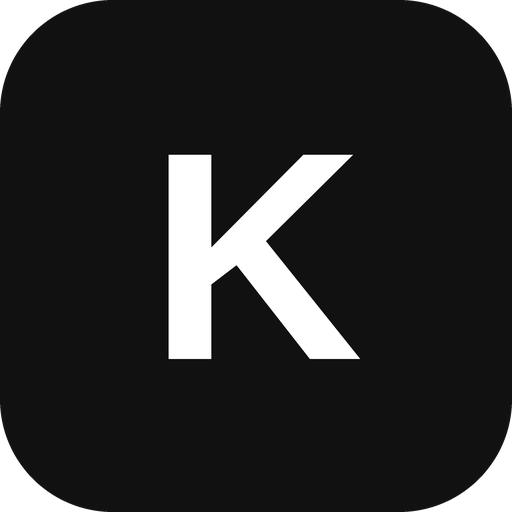
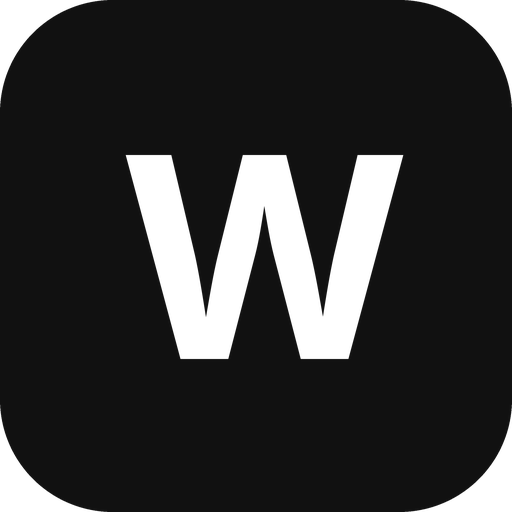
Transformasi

Changed region(s): [[0.25, 0.2812, 0.7812, 0.7188], [0.6875, 0.6875, 0.7188, 0.7188]]

diff --git a/index.html b/index.html
@@ -4,19 +4,19 @@
 <meta charset="utf-8">
 <meta name="viewport" content="width=device-width, initial-scale=1, viewport-fit=cover">
 <meta name="theme-color" content="#ebebec">
-<title>Kalsara | Harga tepat, untung terjaga</title>
+<title>Wulfeg | Harga tepat, untung terjaga</title>
 <link rel="manifest" href="manifest.webmanifest">
 <link rel="icon" type="image/png" sizes="192x192" href="icons/icon-192.png">
 <link rel="apple-touch-icon" href="icons/apple-touch-icon.png">
-<meta name="mobile-web-app-capable" content="yes"><meta name="apple-mobile-web-app-capable" content="yes"><meta name="apple-mobile-web-app-title" content="Kalsara">
+<meta name="mobile-web-app-capable" content="yes"><meta name="apple-mobile-web-app-capable" content="yes"><meta name="apple-mobile-web-app-title" content="Wulfeg">
 <link rel="stylesheet" href="css/app.css">
 </head>
 <body>
 
-<header><div class="av">K</div><div><div class="brand">Kalsara</div><p class="pwa">Progressive Web App</p></div><button class="thm" id="thm" type="button"></button></header>
+<header><div class="av">W</div><div><div class="brand">Wulfeg</div><p class="pwa">Progressive Web App</p></div><button class="thm" id="thm" type="button"></button></header>
 <main>
 <div class="wn y" id="bkr" role="status" hidden style="margin:10px 0 10px;padding:10px 14px;font-size:12.5px;line-height:1.5;border-radius:14px"><span id="bkrt"></span><div style="display:flex;gap:8px;margin-top:8px"><button class="btn" id="bkrn" type="button" style="width:auto;flex:1 1 0;min-width:0;margin:0;padding:10px 12px">Cadangkan sekarang</button><button class="btn gh" id="bkrl" type="button" style="width:auto;flex:0 0 auto;margin:0;padding:10px 18px">Nanti</button></div></div>
-<div class="wn y" id="nvb" role="status" hidden style="margin:10px 0 10px;padding:10px 14px;font-size:12.5px;line-height:1.5;border-radius:14px">Versi baru Kalsara sudah siap. Data Anda tidak akan hilang.<div style="display:flex;gap:8px;margin-top:8px"><button class="btn" id="nvg" type="button" style="width:auto;flex:1 1 0;min-width:0;margin:0;padding:10px 12px">Muat versi terbaru</button></div></div>
+<div class="wn y" id="nvb" role="status" hidden style="margin:10px 0 10px;padding:10px 14px;font-size:12.5px;line-height:1.5;border-radius:14px">Versi baru Wulfeg sudah siap. Data Anda tidak akan hilang.<div style="display:flex;gap:8px;margin-top:8px"><button class="btn" id="nvg" type="button" style="width:auto;flex:1 1 0;min-width:0;margin:0;padding:10px 12px">Muat versi terbaru</button></div></div>
 <div id="top" hidden><div class="hero"><span>Perkiraan untung jika tiap produk laku 1 kali</span><b id="s3">-</b><div class="sync" id="sy">Tersimpan di perangkat ini</div></div><div class="tt" id="tt3" aria-label="Jumlah produk. Ketuk kartu untuk menyaring daftar"><div role="button" tabindex="0" data-ft="all"><span>Total produk</span><b id="tp1">0</b></div><div role="button" tabindex="0" data-ft="live"><span>Sudah live</span><b id="tp2">0</b></div><div role="button" tabindex="0" data-ft="nlive"><span>Belum live</span><b id="tp3">0</b></div></div><p class="tth">Ketuk kartu di atas untuk menyaring daftar produk di bawah.</p><div class="sum2"><div><span>Produk terisi</span><b id="s1">0</b></div><div><span>Rata-rata listing</span><b id="s2">-</b></div><div><span>Perlu dicek (harga)</span><b id="s4">0</b></div><div><span>Cek stok</span><b id="s5">0</b></div></div></div>
 <section class="view" id="v0"><div class="eth"><div class="hd"><div class="hl"><h2>Etalase toko</h2><button class="hb" type="button" aria-label="Buka panduan" data-gd="5"><svg viewBox="0 0 24 24" aria-hidden="true"><path d="M4 5.5A1.5 1.5 0 0 1 5.5 4H11v15H5.5A1.5 1.5 0 0 0 4 20.5zM20 5.5A1.5 1.5 0 0 0 18.5 4H13v15h5.5a1.5 1.5 0 0 1 1.5 1.5z"/></svg>Panduan</button></div></div><div class="etm"><span class="etd" id="tgl"></span><span class="etc" id="shn"></span></div></div><details class="tipd"><summary>Keterangan</summary><p class="tip etn">Produk yang sudah listing atau live di Shopee, dengan harga akhir dan stok. Data diambil dari tab Hitung. Ketuk kartu produk untuk membukanya langsung di tab Hitung. Tombol stok terkunci agar tidak terketuk tanpa sengaja: ketuk ikon gembok untuk membukanya selama 10 detik.</p></details><div class="wn y" id="tw0" hidden></div><div id="shpt" role="navigation" aria-label="Halaman Etalase (atas)" hidden></div><div id="shl"></div><div id="shpg" role="navigation" aria-label="Halaman Etalase (bawah)" hidden></div></section>
 <section class="view" id="v1" hidden><div class="hd"><div class="hl"><h2>Daftar produk</h2><button class="hb" id="hp" type="button" aria-expanded="false" aria-controls="hpt"><svg viewBox="0 0 24 24" aria-hidden="true"><circle cx="12" cy="12" r="9"/><path d="M12 11v5M12 8h.01"/></svg>Bantuan</button></div><button class="lk" id="col">Ciutkan semua</button></div><p class="tip" id="hpt" hidden>Isi modal per pcs, harga jual dan untung muncul otomatis. Untuk paket bundle, isi modal per 1 pcs dan jumlahnya di "Isi paket"; batas biaya XTRA ikut dikali. Tarif khusus satu produk ada di "Tarif produk ini". Catatan stok hanya pengingat. Tombol +/− di sini hanya mengubah stok; untuk mencatat penjualan, tekan − di tab Etalase (otomatis masuk tab Laporan). Selalu cek jumlah stok asli di Seller Centre dan sumber barang Anda. <button class="lk" type="button" data-gd="3">Buka panduan lengkap</button></p><div class="pe" id="ob" hidden><div class="peh"><span class="pty">Mulai cepat: 3 langkah</span></div><p class="tip" style="margin:0 0 8px">Jawab sekali, harga langsung sesuai toko Anda. Bisa diubah kapan saja di Pengaturan.</p><div class="fl"><label for="obt">1. Tipe toko</label><select id="obt"><option value="ns">Non-Star</option><option value="st">Star / Star+</option><option value="ml">Shopee Mall</option></select></div><div class="fl"><label for="obc">2. Kategori administrasi produk</label><select id="obc"></select></div><div class="fl"><label for="obg">3. Gratis Ongkir XTRA</label><select id="obg"></select></div><button class="btn" id="obs" type="button" style="margin-top:10px">Simpan dan mulai</button><button class="lk" id="obx" type="button">Lewati</button></div>
@@ -95,7 +95,7 @@
 <div class="fl"><label for="erpn">Nominal (Rp)</label><input id="erpn" inputmode="numeric" placeholder="contoh 1500000"></div><div class="fl"><label for="erpt">Keterangan</label><input id="erpt" maxlength="120"></div>
 <button class="btn" id="erpa" type="button">Simpan OpEx</button><div id="erpo"></div></div></details></section>
 
-<footer>Kalsara &middot; versi 5.82 (29 Okt 2026)</footer></main>
+<footer>Wulfeg &middot; versi 5.82 (29 Okt 2026)</footer></main>
 <nav role="tablist" aria-label="Menu utama">
 <button role="tab" id="t0" aria-selected="true"><svg viewBox="0 0 24 24"><path d="M4 9l1.5-5h13L20 9M4 9v11h16V9M4 9h16M9 20v-6h6v6"/></svg>Etalase</button>
 <button role="tab" id="t1" aria-selected="false"><svg viewBox="0 0 24 24"><rect x="5" y="3" width="14" height="18" rx="2"/><path d="M8 7h8M8 11h2M12 11h2M8 15h2M12 15h2"/></svg>Hitung</button>
@@ -106,7 +106,7 @@
 <button role="tab" id="t2" aria-selected="false" aria-label="Pengaturan"><svg viewBox="0 0 24 24"><path d="M4 7h10M18 7h2M4 17h2M10 17h10"/><circle cx="16" cy="7" r="2"/><circle cx="8" cy="17" r="2"/></svg>Setelan</button>
 </nav>
 <button class="fab" id="fab" type="button" aria-label="Tambah produk baru" title="Tambah produk"><svg viewBox="0 0 24 24"><path d="M12 5v14M5 12h14"/></svg></button>
-<div class="gdv" id="gd" role="dialog" aria-modal="true" aria-labelledby="gdt1" hidden><div class="gdw"><div class="gdh"><h2 id="gdt1">Panduan Kalsara</h2><button class="gdx" id="gdx" type="button">Tutup</button></div><p class="tip" style="margin:12px 2px 0">Ketuk bab untuk membukanya. Urutan 1 sampai 7 mengikuti alur kerja yang disarankan.</p><div class="gdn"><button class="gdq" type="button" data-gd="1">1 Pengaturan</button><button class="gdq" type="button" data-gd="2">2 Tarif</button><button class="gdq" type="button" data-gd="3">3 Produk</button><button class="gdq" type="button" data-gd="4">4 Promosi</button><button class="gdq" type="button" data-gd="5">5 Stok</button><button class="gdq" type="button" data-gd="6">6 Laporan</button><button class="gdq" type="button" data-gd="7">7 Cadangan</button><button class="gdq" type="button" data-gd="8">8 Masalah umum</button></div><div id="gdb"></div></div></div>
+<div class="gdv" id="gd" role="dialog" aria-modal="true" aria-labelledby="gdt1" hidden><div class="gdw"><div class="gdh"><h2 id="gdt1">Panduan Wulfeg</h2><button class="gdx" id="gdx" type="button">Tutup</button></div><p class="tip" style="margin:12px 2px 0">Ketuk bab untuk membukanya. Urutan 1 sampai 7 mengikuti alur kerja yang disarankan.</p><div class="gdn"><button class="gdq" type="button" data-gd="1">1 Pengaturan</button><button class="gdq" type="button" data-gd="2">2 Tarif</button><button class="gdq" type="button" data-gd="3">3 Produk</button><button class="gdq" type="button" data-gd="4">4 Promosi</button><button class="gdq" type="button" data-gd="5">5 Stok</button><button class="gdq" type="button" data-gd="6">6 Laporan</button><button class="gdq" type="button" data-gd="7">7 Cadangan</button><button class="gdq" type="button" data-gd="8">8 Masalah umum</button></div><div id="gdb"></div></div></div>
 <template id="gdtp"><details class="sec gdc" data-ch="1"><summary>1. Mulai dari nol: pengaturan toko</summary><div class="sb">
 <p>Semua hitungan harga dan untung memakai pengaturan toko. Karena itu isi bagian ini lebih dulu, baru cek tarif, promosi, dan produk. Kalau pengaturan belum cocok dengan kondisi toko, hasilnya akan meleset.</p>
 <p><b>Langkah di tab Setelan:</b></p>

diff --git a/js/storage.js b/js/storage.js
@@ -133,7 +133,7 @@ export async function initStorage(options = {}) {
   try { await navigator.storage.persist(); } catch {}
   const marker = await readMarker();
   const lock = await acquireWriterLock();
-  if (!lock.held) throw coded('another-tab','Kalsara sedang terbuka di tab atau jendela lain. Tutup yang lain, lalu muat ulang halaman ini agar data tidak bentrok.');
+  if (!lock.held) throw coded('another-tab','Wulfeg sedang terbuka di tab atau jendela lain. Tutup yang lain, lalu muat ulang halaman ini agar data tidak bentrok.');
 
   let opened = null, openError = null;
   try {
@@ -163,7 +163,7 @@ export async function initStorage(options = {}) {
     lock.release();
     // Baca ulang: impor pertama menulis penanda sebelum gagal; jangan jatuh ke jurnal bila penanda sudah ada.
     const current = await readMarker();
-    if (marker.authoritative === 'sqlite' || current.authoritative === 'sqlite') throw coded('sqlite-required','Database SQLite Kalsara tidak dapat dibuka (' + openError.message + '). Data terbaru berada di SQLite, jadi aplikasi tidak memakai jurnal lama yang sudah usang. Pastikan file vendor/sqlite-wasm tersedia, lalu muat ulang.', openError);
+    if (marker.authoritative === 'sqlite' || current.authoritative === 'sqlite') throw coded('sqlite-required','Database SQLite Wulfeg tidak dapat dibuka (' + openError.message + '). Data terbaru berada di SQLite, jadi aplikasi tidak memakai jurnal lama yang sudah usang. Pastikan file vendor/sqlite-wasm tersedia, lalu muat ulang.', openError);
     console.warn('SQLite tidak tersedia; memakai jurnal OPFS.', openError);
     mode = 'journal';
     await replayJournal();
@@ -187,7 +187,7 @@ function enqueueTask(key, run, rollback) {
     if (writeVersions.get(key) === version) {
       try { await rollback(); } catch (e) { console.error('Gagal memulihkan keadaan setelah penulisan gagal.',e); }
     }
-    console.error('Gagal menyimpan perubahan Kalsara.',error);
+    console.error('Gagal menyimpan perubahan Wulfeg.',error);
     dispatchStorageError(error.message);
   }).finally(() => { pendingWrites--; });
 }
@@ -329,7 +329,7 @@ export const KStore = {
 export async function backupToFile() {
   if (!window.showSaveFilePicker) throw new Error('File System Access API tidak tersedia di browser ini.');
   const data=await KStore.exportSnapshot();
-  const handle=await window.showSaveFilePicker({suggestedName:'kalsara-backup.json',types:[{description:'Cadangan Kalsara',accept:{'application/json':['.json']}}]});
+  const handle=await window.showSaveFilePicker({suggestedName:'wulfeg-backup.json',types:[{description:'Cadangan Wulfeg',accept:{'application/json':['.json']}}]});
   const writer=await handle.createWritable();
   try { await writer.write(data); await writer.close(); } catch(e) { try { await writer.abort(); } catch {} throw e; }
 }

diff --git a/js/penyimpanan-cadangan.js b/js/penyimpanan-cadangan.js
@@ -18,13 +18,13 @@ function bkFull(lt){return Backup.full(lt)}
 function bkDo(lt,use){bkFull(lt).then(function(r){if(!r.t){toast('Gagal membuat cadangan');return}
  if(r.err){ask('Data ERP tidak bisa dibaca ('+r.err+'). Cadangan ini HANYA memuat data utama (produk, promo, penjualan), bukan data ERP. Lanjutkan?','Ya, tanpa ERP',function(){use(r)});return}
  use(r)})}
-$('bk').onclick=function(){bkDo(false,function(r){dl('cadangan-kalsara-'+today()+'.txt',r.t,'text/plain;charset=utf-8','Salin cadangan');bkMark()})};
+$('bk').onclick=function(){bkDo(false,function(r){dl('cadangan-wulfeg-'+today()+'.txt',r.t,'text/plain;charset=utf-8','Salin cadangan');bkMark()})};
 function bpInfo(){var n=$('bpt').value.length;$('bpm').textContent=n?n.toLocaleString('id-ID')+' karakter di kotak.':''}
 /*5.22: bagikan cadangan lewat menu bagikan HP; jika tidak tersedia, jatuh ke unduhan biasa*/
 $('bsh').onclick=function(){bkDo(false,function(r){var t=r.t,
- nm='cadangan-kalsara-'+today()+'.txt',fb=function(){toast('Menu bagikan tidak tersedia di sini. Cadangan diunduh sebagai gantinya.');dl(nm,t,'text/plain;charset=utf-8','Salin cadangan');bkMark()};
+ nm='cadangan-wulfeg-'+today()+'.txt',fb=function(){toast('Menu bagikan tidak tersedia di sini. Cadangan diunduh sebagai gantinya.');dl(nm,t,'text/plain;charset=utf-8','Salin cadangan');bkMark()};
  try{var f=new File([t],nm,{type:'text/plain'});
-  if(navigator.share&&navigator.canShare&&navigator.canShare({files:[f]})){navigator.share({files:[f],title:'Cadangan Kalsara'}).then(function(){bkMark();toast('Cadangan dibagikan')},function(e){if(e&&e.name=='AbortError')toast('Dibatalkan');else fb()});return}}catch(e){}
+  if(navigator.share&&navigator.canShare&&navigator.canShare({files:[f]})){navigator.share({files:[f],title:'Cadangan Wulfeg'}).then(function(){bkMark();toast('Cadangan dibagikan')},function(e){if(e&&e.name=='AbortError')toast('Dibatalkan');else fb()});return}}catch(e){}
  fb()})};
 function showBp(txt){$('bpw').hidden=false;if(txt!==undefined)$('bpt').value=txt;bpInfo();$('bpt').focus()}
 $('bpt').addEventListener('input',bpInfo);

diff --git a/js/tab-impor-sinkron.js b/js/tab-impor-sinkron.js
@@ -34,8 +34,8 @@ function dl(name,text,mime,alt,onFail){
  var h=alt?'gunakan tombol '+alt:'buka aplikasi lewat browser biasa';
  toast(ok?'Unduhan dimulai. Jika file tidak muncul, '+h+'.':'Unduhan tidak tersedia. '+h.charAt(0).toUpperCase()+h.slice(1)+'.');
 }
-$('xr').onclick=function(){var o=tbl();if(o.length<2){toast('Belum ada hasil untuk diunduh');return}dl('hasil-kalsara.csv',csv(o),'text/csv;charset=utf-8','Salin hasil')};
-$('xt').onclick=function(){dl('template-produk-kalsara.csv',(csv([['Nama produk','Modal / HPP per pcs','Biaya Management Partner','Biaya packing','Target untung','Isi paket (opsional)','Stok Shopee (opsional)','Sumber barang (opsional)','SKU (opsional)','Link sumber barang (opsional)','Tarif Gratis Ongkir XTRA % (opsional)'],['Contoh produk A',25000,1000,500,5000,1,20,'Toko ABC','KAOS-01','https://contoh.com/produk',2]])),'text/csv;charset=utf-8','')};
+$('xr').onclick=function(){var o=tbl();if(o.length<2){toast('Belum ada hasil untuk diunduh');return}dl('hasil-wulfeg.csv',csv(o),'text/csv;charset=utf-8','Salin hasil')};
+$('xt').onclick=function(){dl('template-produk-wulfeg.csv',(csv([['Nama produk','Modal / HPP per pcs','Biaya Management Partner','Biaya packing','Target untung','Isi paket (opsional)','Stok Shopee (opsional)','Sumber barang (opsional)','SKU (opsional)','Link sumber barang (opsional)','Tarif Gratis Ongkir XTRA % (opsional)'],['Contoh produk A',25000,1000,500,5000,1,20,'Toko ABC','KAOS-01','https://contoh.com/produk',2]])),'text/csv;charset=utf-8','')};
 function parseCsv(t){
  parseCsv.bad=false;t=String(t||'').replace(/^\ufeff/,'');
  var l1=t.split(/\r?\n/,1)[0]||'',ds=[';','\t',','],counts=ds.map(function(d){

diff --git a/progress.html b/progress.html
@@ -1,6 +1,6 @@
 <!doctype html>
 <html lang="id"><head><meta charset="utf-8"><meta name="viewport" content="width=device-width,initial-scale=1">
-<title>Kalsara - Progres Migrasi</title>
+<title>Wulfeg - Progres Migrasi</title>
 <style>
 :root{--bg:#f6f7f9;--fg:#1c2330;--card:#fff;--mut:#5b6575;--ok:#127a3d;--warn:#9a6200;--bad:#a12626;--line:#dfe3ea}
 @media (prefers-color-scheme:dark){:root{--bg:#12151b;--fg:#e8ebf0;--card:#1a1f28;--mut:#9aa4b2;--ok:#4cc58a;--warn:#e0a83c;--bad:#f07a7a;--line:#2a313d}}
@@ -11,7 +11,7 @@ main{max-width:760px;margin:0 auto}h1{font-size:1.4rem}h2{font-size:1.05rem;marg
 .ok{color:var(--ok);font-weight:600}.warn{color:var(--warn);font-weight:600}.bad{color:var(--bad);font-weight:600}.mut{color:var(--mut)}
 a{color:inherit}
 </style></head><body><main>
-<h1>Dashboard Progres Migrasi Kalsara</h1>
+<h1>Dashboard Progres Migrasi Wulfeg</h1>
 <p class="mut">Paket v9.52 (label umum, bukan khusus dropship; hanya teks tampilan; di atas v9.51 dan Tahap 9C v9.49). Ringkasan jujur: apa yang sudah terbukti dan apa yang belum.</p>
 <section class="card"><h2>Status rilis</h2><p><span class="bad">BELUM SIAP PRODUKSI</span>. Jangan menggantikan aplikasi toko asli sebelum E2E 20/20 di GitHub Actions dan uji manual lulus.</p></section>
 <section class="card"><h2>Struktur kode</h2>

diff --git a/js/penjualan.js b/js/penjualan.js
@@ -56,7 +56,7 @@ function rpt(){var m=RM=='m',k=m?RO:RD,td=today(),S=st.SALES.filter(function(s){
 $('v4').addEventListener('click',function(e){var b=e.target.closest('button');if(!b)return;var D=b.dataset;
  if(D.rm){RM=D.rm;rpt();return}
  if(D.rn){var n=+D.rn;if(RM=='m'){var d=new Date(RO+'-15T12:00:00');d.setMonth(d.getMonth()+n);RO=ymd(d).slice(0,7)}else{var d2=new Date(RD+'T12:00:00');d2.setDate(d2.getDate()+n);RD=ymd(d2)}rpt();return}
- if(D.exp!==undefined){var sr=salesRows();if(!sr){toast('Belum ada penjualan untuk diekspor');return}dl('penjualan-kalsara-'+today()+'.csv',csv(sr),'text/csv;charset=utf-8','Salin CSV',function(){showCpBox(csv(sr).replace(/^\ufeff/,''))});return}
+ if(D.exp!==undefined){var sr=salesRows();if(!sr){toast('Belum ada penjualan untuk diekspor');return}dl('penjualan-wulfeg-'+today()+'.csv',csv(sr),'text/csv;charset=utf-8','Salin CSV',function(){showCpBox(csv(sr).replace(/^\ufeff/,''))});return}
  if(D.excp!==undefined){copySales();return}
  if(D.cpsel!==undefined){var ct=$('cptx');if(ct){ct.focus();ct.select()}return}
  if(D.rl){var on=!rlOn(D.rl);rlSet(D.rl,on);rlUi(D.rl);if(on)toast('Tombol hapus terbuka 10 detik');return}

diff --git a/js/worker-client.js b/js/worker-client.js
@@ -35,7 +35,7 @@ function ensureWorker() {
     if (data.ok) p.resolve(data.result);
     else p.reject(new Error(data.error || 'Operasi Worker gagal'));
   };
-  instance.onerror = event => resetWorker(new Error(event.message || 'Worker Kalsara gagal dijalankan'));
+  instance.onerror = event => resetWorker(new Error(event.message || 'Worker Wulfeg gagal dijalankan'));
   worker = instance;
   return instance;
 }
@@ -52,7 +52,7 @@ export function compute(type, payload, transfer = []) {
       pending.delete(id);
       p.reject(new Error('Operasi Worker melewati batas waktu 60 detik: ' + type));
       // A timed-out synchronous task can block this worker; replace it for future work.
-      resetWorker(new Error('Worker Kalsara direset setelah batas waktu'));
+      resetWorker(new Error('Worker Wulfeg direset setelah batas waktu'));
     }, REQUEST_TIMEOUT_MS);
     pending.set(id, {resolve, reject, timer});
     try { instance.postMessage({id, type, payload}, transfer); }

diff --git a/js/pwa.js b/js/pwa.js
@@ -24,7 +24,7 @@ $('pwu').onclick=function(){if(!swReg){toast('Pembaruan hanya bisa dicek dari al
  toast('Memeriksa pembaruan...');
  swReg.update().then(function(){setTimeout(function(){if($('nvb').hidden)toast('Sudah versi terbaru ('+APPV+')')},1500)},function(){toast('Tidak bisa memeriksa. Cek koneksi internet')})};
 window.addEventListener('beforeinstallprompt',function(e){e.preventDefault();dip=e;if(!isSA())$('pwi').hidden=false});
-window.addEventListener('appinstalled',function(){dip=null;$('pwi').hidden=true;pwSt();toast('Kalsara terpasang')});
+window.addEventListener('appinstalled',function(){dip=null;$('pwi').hidden=true;pwSt();toast('Wulfeg terpasang')});
 $('pwi').onclick=function(){if(!dip)return;dip.prompt();dip.userChoice.then(function(){dip=null;$('pwi').hidden=true},function(){})};
 pwSt();
 

diff --git a/js/main.js b/js/main.js
@@ -16,7 +16,7 @@ catch (e) {
   const box = document.createElement('div');
   box.setAttribute('role','alert');
   box.style.cssText = 'margin:24px auto;max-width:520px;padding:16px;border:1px solid #c33;border-radius:8px;font:15px/1.5 system-ui,sans-serif';
-  box.textContent = 'Kalsara tidak dapat membuka penyimpanan data. ' + (e && e.message ? e.message : '');
+  box.textContent = 'Wulfeg tidak dapat membuka penyimpanan data. ' + (e && e.message ? e.message : '');
   document.body.replaceChildren(box);
   throw e;
 }

diff --git a/js/version.js b/js/version.js
@@ -4,4 +4,4 @@
  * Sengaja berupa skrip biasa (bukan export) supaya bisa dimuat dua cara dari SATU berkas:
  *   import './version.js' di modul halaman (js/main.js) dan importScripts('./js/version.js') di sw.js.
  * package.json dan README tidak boleh berbeda: tests/tahap8.test.mjs memeriksanya. */
-globalThis.KALSARA_VERSION=Object.freeze({app:'5.82',paket:'9.52'});
+globalThis.KALSARA_VERSION=Object.freeze({app:'5.82',paket:'9.53'});

diff --git a/js/backup-format.js b/js/backup-format.js
@@ -14,6 +14,6 @@ export function parseBackupText(text) {
     return { ok: false, message };
   }
   if (!data || !data.A || !Array.isArray(data.rows))
-    return { ok: false, message: 'Cadangan tidak valid: bukan data Kalsara.' };
+    return { ok: false, message: 'Cadangan tidak valid: bukan data Wulfeg.' };
   return { ok: true, data };
 }

diff --git a/tests/e2e/tahap4.e2e.py b/tests/e2e/tahap4.e2e.py
@@ -40,7 +40,7 @@ try:
         # 2. cadangan terunduh, lalu status berubah jadi "hari ini" dan pengingat hilang
         with pg.expect_download(timeout=8000) as d: pg.evaluate("document.getElementById('bk').click()")
         bk = json.loads(open(d.value.path(), encoding='utf8').read())
-        check(len(bk['rows']) == 3 and d.value.suggested_filename == 'cadangan-kalsara-%s.txt' % datetime.date.today().isoformat(), 'cadangan terunduh: 3 produk, nama berkas bertanggal')
+        check(len(bk['rows']) == 3 and d.value.suggested_filename == 'cadangan-wulfeg-%s.txt' % datetime.date.today().isoformat(), 'cadangan terunduh: 3 produk, nama berkas bertanggal')
         pg.wait_for_timeout(300)
         check('Cadangan terakhir: hari ini' in pg.inner_text('#sy') and pg.evaluate("document.getElementById('bkr').hidden") is True, 'sesudah cadangan: status "hari ini" dan pengingat disembunyikan')
         # 4. tab ber-pembungkus: klik Tarif -> panel Cek tarif tampil, tab terpilih; panah dan End berpindah tab
